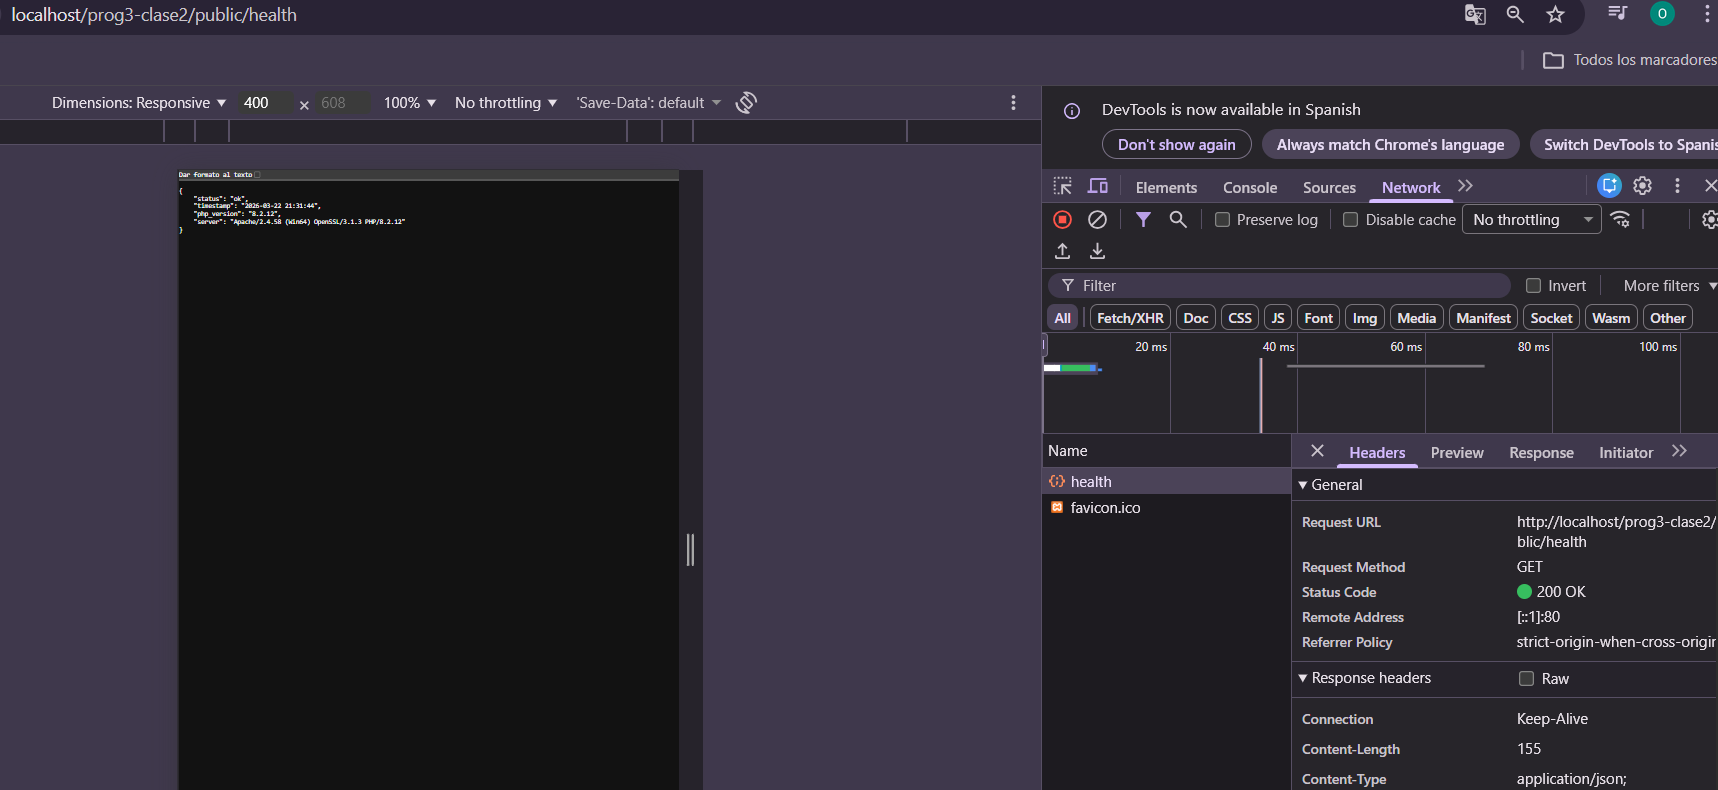
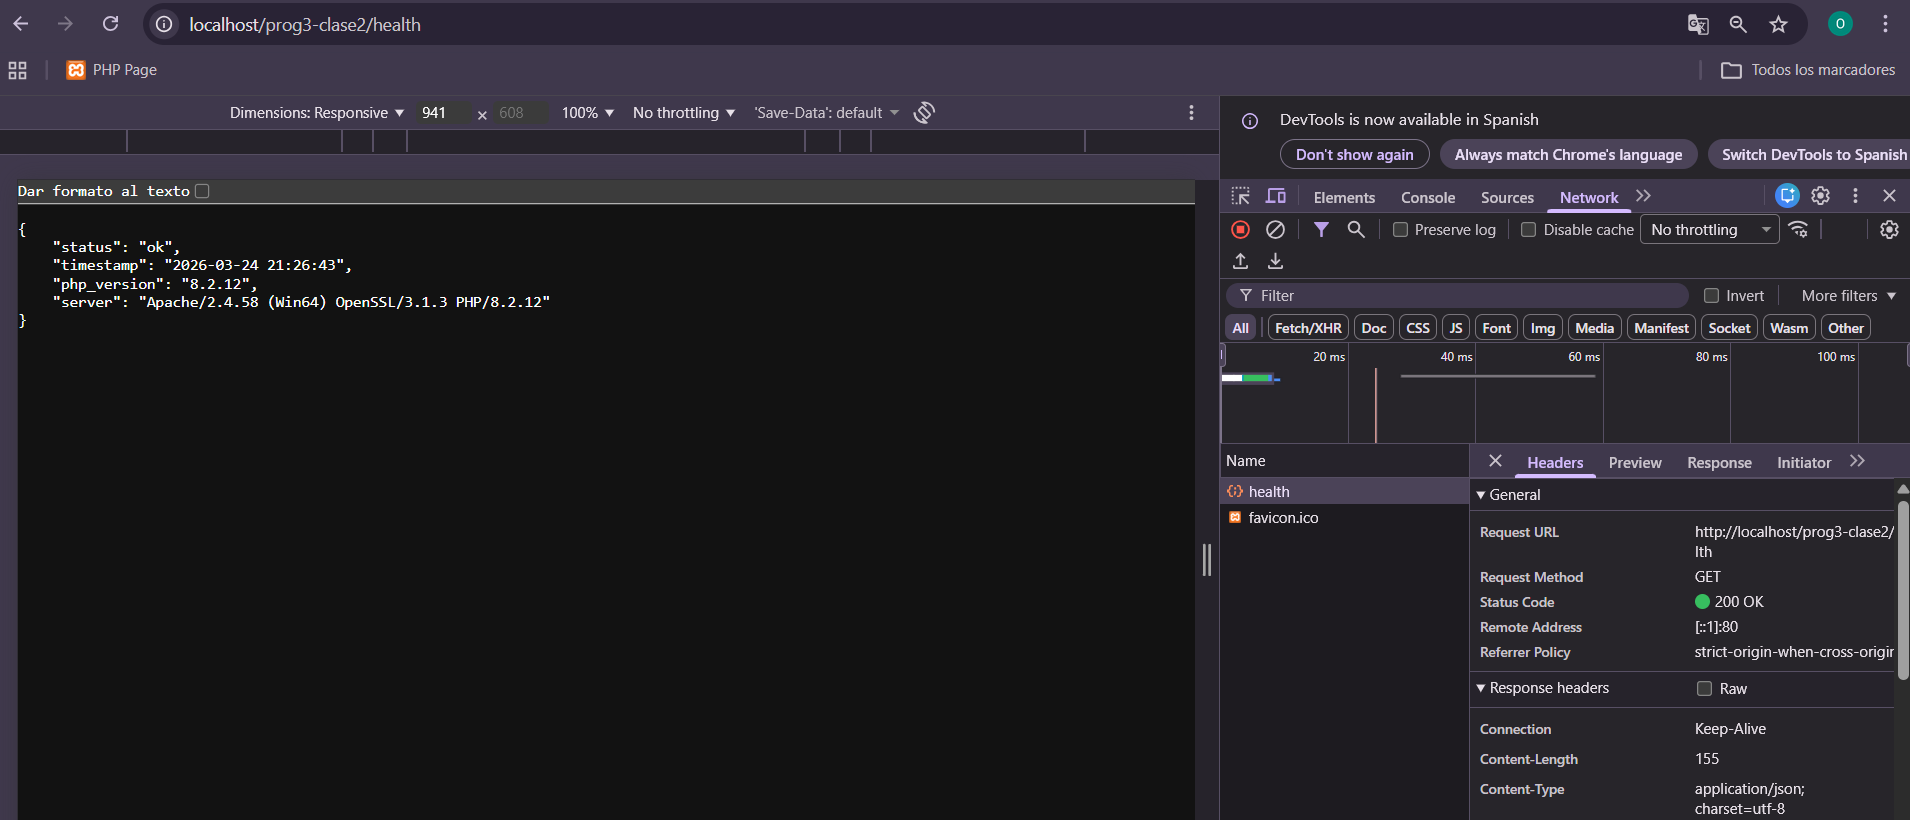
Agregue un nuevo .htaccess para que me pueda andar sin el public adelante, cambie el codigo del .htaccess que esta dentro de la carpeta public y cambie el codigo de index.php

diff --git a/public/index.php b/public/index.php
@@ -1,62 +1,43 @@
 <?php
 declare(strict_types=1);
 
-// Método HTTP
 $method = $_SERVER['REQUEST_METHOD'] ?? 'GET';
-
-// URI pedida
 $requestUri = $_SERVER['REQUEST_URI'] ?? '/';
-
-// Quitar query string
 $path = parse_url($requestUri, PHP_URL_PATH);
 
-// Normalizar posibles bases
 $scriptName = $_SERVER['SCRIPT_NAME'] ?? '';
-$scriptDir  = str_replace('\\', '/', dirname($scriptName)); // ej: /prog3-clase2/public
+$scriptDir  = str_replace('\\', '/', dirname($scriptName));
 
-// Si la URL contiene el directorio del script, lo quitamos
-if ($scriptDir !== '/' && strpos($path, $scriptDir) === 0) {
-    $path = substr($path, strlen($scriptDir));
-} else {
-    // fallback: quitar /public si aparece
-    $path = preg_replace('#^/public#', '', $path);
-}
+// Sacar /prog3-clase2/public o /prog3-clase2
+$path = preg_replace('#^/prog3-clase2(/public)?#', '', $path);
 
-// asegurar formato
 $path = '/' . ltrim((string)$path, '/');
 if ($path === '//') {
     $path = '/';
 }
 
-// Ruta de prueba
 if ($method === 'GET' && $path === '/health') {
     header('Content-Type: application/json; charset=utf-8');
     http_response_code(200);
-
     echo json_encode([
         'status'      => 'ok',
         'timestamp'   => date('Y-m-d H:i:s'),
         'php_version' => phpversion(),
         'server'      => $_SERVER['SERVER_SOFTWARE'] ?? 'Apache'
     ], JSON_PRETTY_PRINT | JSON_UNESCAPED_SLASHES);
-
     exit;
 }
 
-// Ruta base opcional
 if ($method === 'GET' && $path === '/') {
     header('Content-Type: application/json; charset=utf-8');
     http_response_code(200);
-
     echo json_encode([
         'message' => 'API funcionando',
         'health'  => '/health'
     ], JSON_PRETTY_PRINT | JSON_UNESCAPED_SLASHES);
-
     exit;
 }
 
-// No encontrada
 header('Content-Type: application/json; charset=utf-8');
 http_response_code(404);
 echo json_encode([
